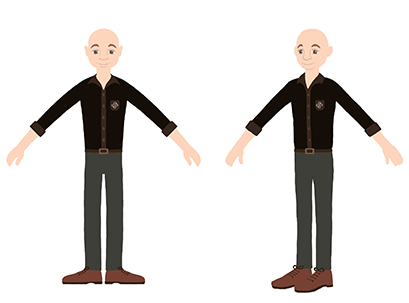
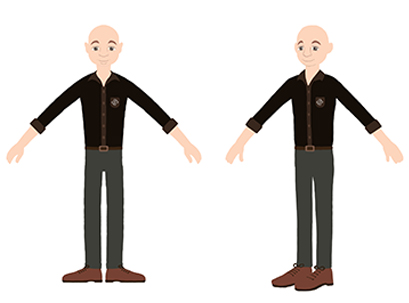
Added new version of the caricature man drawing. Added the character designs for the car animation. Adjusted the thumbnails for the drawings

diff --git a/artworks.html b/artworks.html
@@ -115,23 +115,27 @@
                     <h5>(*Use arrow to scroll next slide)</h5>
                     <div id="lightgallery">
 
+                        <a href="image/character-design/car/car-characters.jpg">
+                            <img src="image/character-design/car/car-thumb.jpg" alt="Car Animation characters (2021)" title="Car Animation characters (2021)">
+                        </a>
+
                         <a href="image/character-design/game-characters/female-character/female-character-turnaround.jpg">
-                            <img src="image/character-design/game-characters/female-character/female-character-turnaround.jpg" alt="Female Game Character (2021)" title="Female Game Character (2021)">
+                            <img src="image/character-design/game-characters/female-character/female-thumb.jpg" alt="Female Game Character (2021)" title="Female Game Character (2021)">
                             <a href="image/character-design/game-characters/female-character/female-character-turnaround-no armor.jpg"></a>
                         </a>
 
                         <a href="image/character-design/game-characters/male-character/male-character-turnaround.jpg">
-                            <img src="image/character-design/game-characters/male-character/male-character-turnaround.jpg" alt="Male Game Character (2021)" title="Male Game Character (2021)">
+                            <img src="image/character-design/game-characters/male-character/male-thumb.jpg" alt="Male Game Character (2021)" title="Male Game Character (2021)">
                             <a href="image/character-design/game-characters/male-character/male-character-turnaround-no armor.jpg"></a>
                         </a>
 
                         <a href="image/character-design/benny/benny-turnaround.jpg">
-                            <img src="image/character-design/benny/benny-turnaround.jpg" alt="Benny (2021)" title="Benny (2021)">
+                            <img src="image/character-design/benny/benny-thumb.jpg" alt="Benny (2021)" title="Benny (2021)">
                             <a href="image/character-design/benny/benny-expressions.jpg"></a>
                         </a>
 
                         <a href="image/character-design/factory/main.jpg">
-                            <img src="image/character-design/factory/main.jpg" alt="Factory Animation-main characters (2021)" title="Factory Animation-main characters (2021)">
+                            <img src="image/character-design/factory/main-thumb.jpg" alt="Factory Animation-main characters (2021)" title="Factory Animation-main characters (2021)">
                         </a>
 
                         <a href="image/character-design/tennis-boy/together-coach.jpg">
@@ -266,15 +270,15 @@
                     <div id="lightgallery2">
 
                         <a href="image/illustration/factory-bg/factory-outside.jpg">
-                            <img src="image/illustration/factory-bg/factory-outside.jpg" alt="Factory Animation-factory exterior (2021)" title="Factory Animation-factory exterior (2021)">
+                            <img src="image/illustration/factory-bg/factory-outside-thumb.jpg" alt="Factory Animation-factory exterior (2021)" title="Factory Animation-factory exterior (2021)">
                         </a>
 
                         <a href="image/illustration/factory-bg/factory-inside.jpg">
-                            <img src="image/illustration/factory-bg/factory-inside.jpg" alt="Factory Animation-factory interior (2021)" title="Factory Animation-factory interior (2021)">
+                            <img src="image/illustration/factory-bg/factory-inside-thumb.jpg" alt="Factory Animation-factory interior (2021)" title="Factory Animation-factory interior (2021)">
                         </a>
 
                         <a href="image/illustration/factory-bg/bar.png">
-                            <img src="image/illustration/factory-bg/bar.png" alt="Factory Animation-bar (2021)" title="Factory Animation-bar (2021)">
+                            <img src="image/illustration/factory-bg/bar-thumb.jpg" alt="Factory Animation-bar (2021)" title="Factory Animation-bar (2021)">
                         </a>
 
                         <a href="image/illustration/witch/witch.jpg">
@@ -329,7 +333,7 @@
                 <a href="https://mail.google.com/mail/u/0/?view=cm&fs=1&to=animatedreamer@gmail.com&tf=1" target="_blank"><img src="image/footer-email.png" alt="Email icon" title="Email icon" /></a>
                 <a href="https://mail.google.com/mail/u/0/?view=cm&fs=1&to=animatedreamer@gmail.com&tf=1" target="_blank">Animatedreamer@gmail.com</a>
             </div>
-            <p class="footer">©2020 Animate Dreamer</p>
+            <p class="footer">©2021 Animate Dreamer</p>
         </div>
 
     </footer>

diff --git a/about.html b/about.html
@@ -119,7 +119,7 @@
                 <a href="https://mail.google.com/mail/u/0/?view=cm&fs=1&to=animatedreamer@gmail.com&tf=1" target="_blank"><img src="image/footer-email.png" alt="Email icon" title="Email icon" /></a>
                 <a href="https://mail.google.com/mail/u/0/?view=cm&fs=1&to=animatedreamer@gmail.com&tf=1" target="_blank">Animatedreamer@gmail.com</a>
             </div>
-            <p class="footer">©2020 Animate Dreamer</p>
+            <p class="footer">©2021 Animate Dreamer</p>
         </div>
 
     </footer>

diff --git a/contact.html b/contact.html
@@ -139,7 +139,7 @@
                 <a href="https://mail.google.com/mail/u/0/?view=cm&fs=1&to=animatedreamer@gmail.com&tf=1" target="_blank"><img src="image/footer-email.png" alt="Email icon" title="Email icon" /></a>
                 <a href="https://mail.google.com/mail/u/0/?view=cm&fs=1&to=animatedreamer@gmail.com&tf=1" target="_blank">Animatedreamer@gmail.com</a>
             </div>
-            <p class="footer">©2020 Animate Dreamer</p>
+            <p class="footer">©2021 Animate Dreamer</p>
         </div>
 
     </footer>

diff --git a/index.html b/index.html
@@ -136,7 +136,7 @@
                 <a href="https://mail.google.com/mail/u/0/?view=cm&fs=1&to=animatedreamer@gmail.com&tf=1" target="_blank"><img src="image/footer-email.png" alt="Email icon" title="Email icon" /></a>
                 <a href="https://mail.google.com/mail/u/0/?view=cm&fs=1&to=animatedreamer@gmail.com&tf=1" target="_blank">Animatedreamer@gmail.com</a>
             </div>
-            <p class="footer">©2020 Animate Dreamer</p>
+            <p class="footer">©2021 Animate Dreamer</p>
         </div>
 
     </footer>
